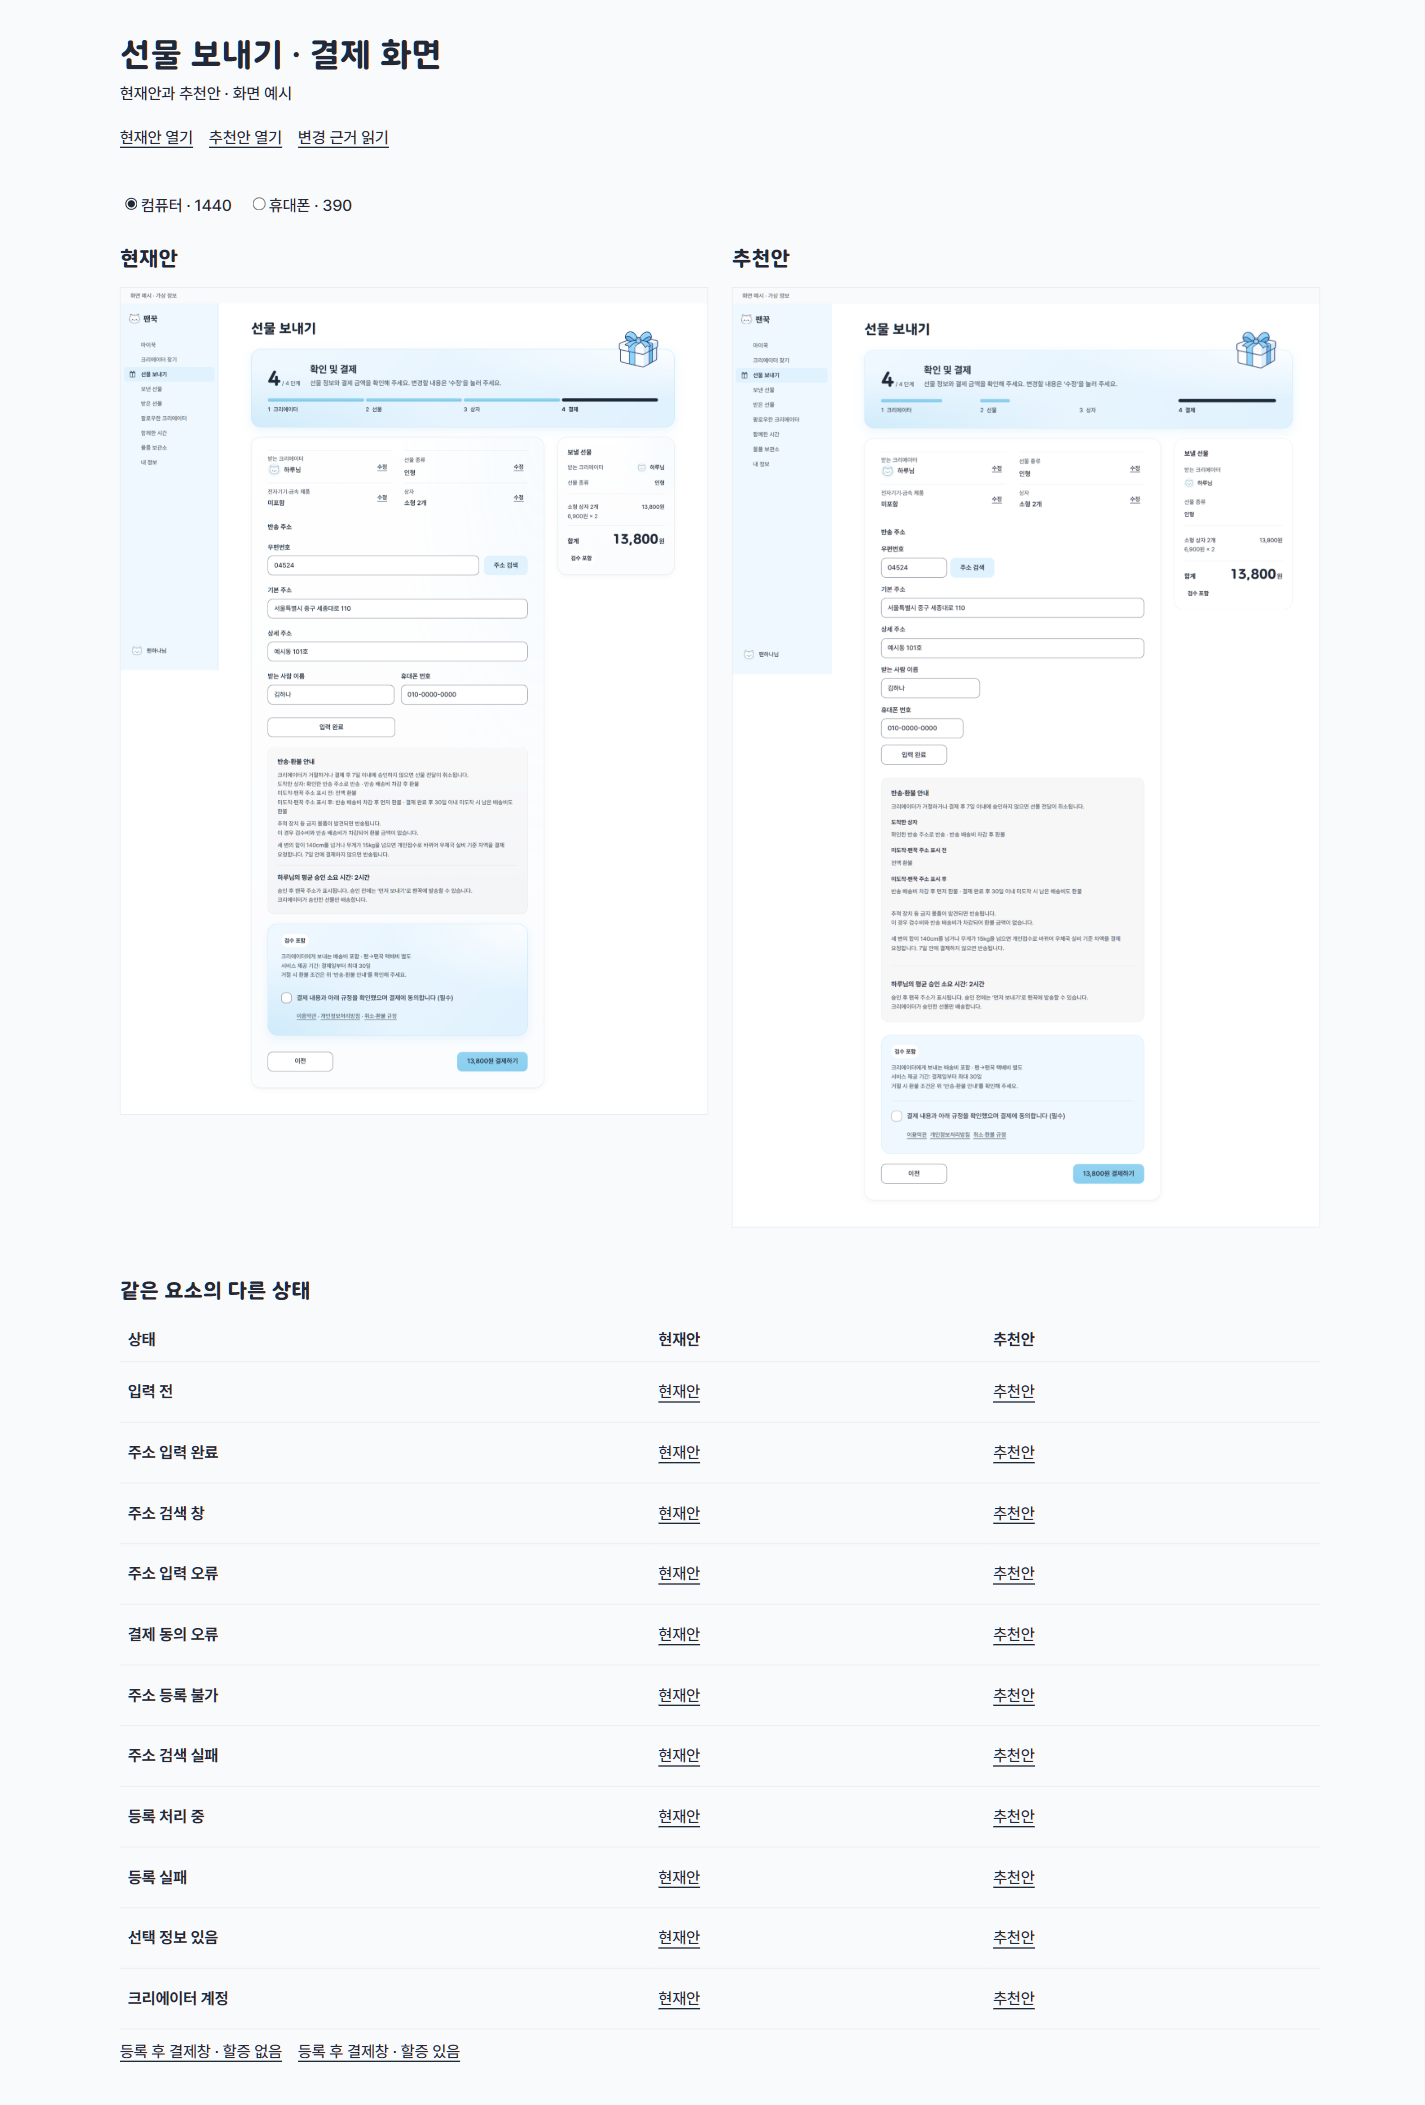
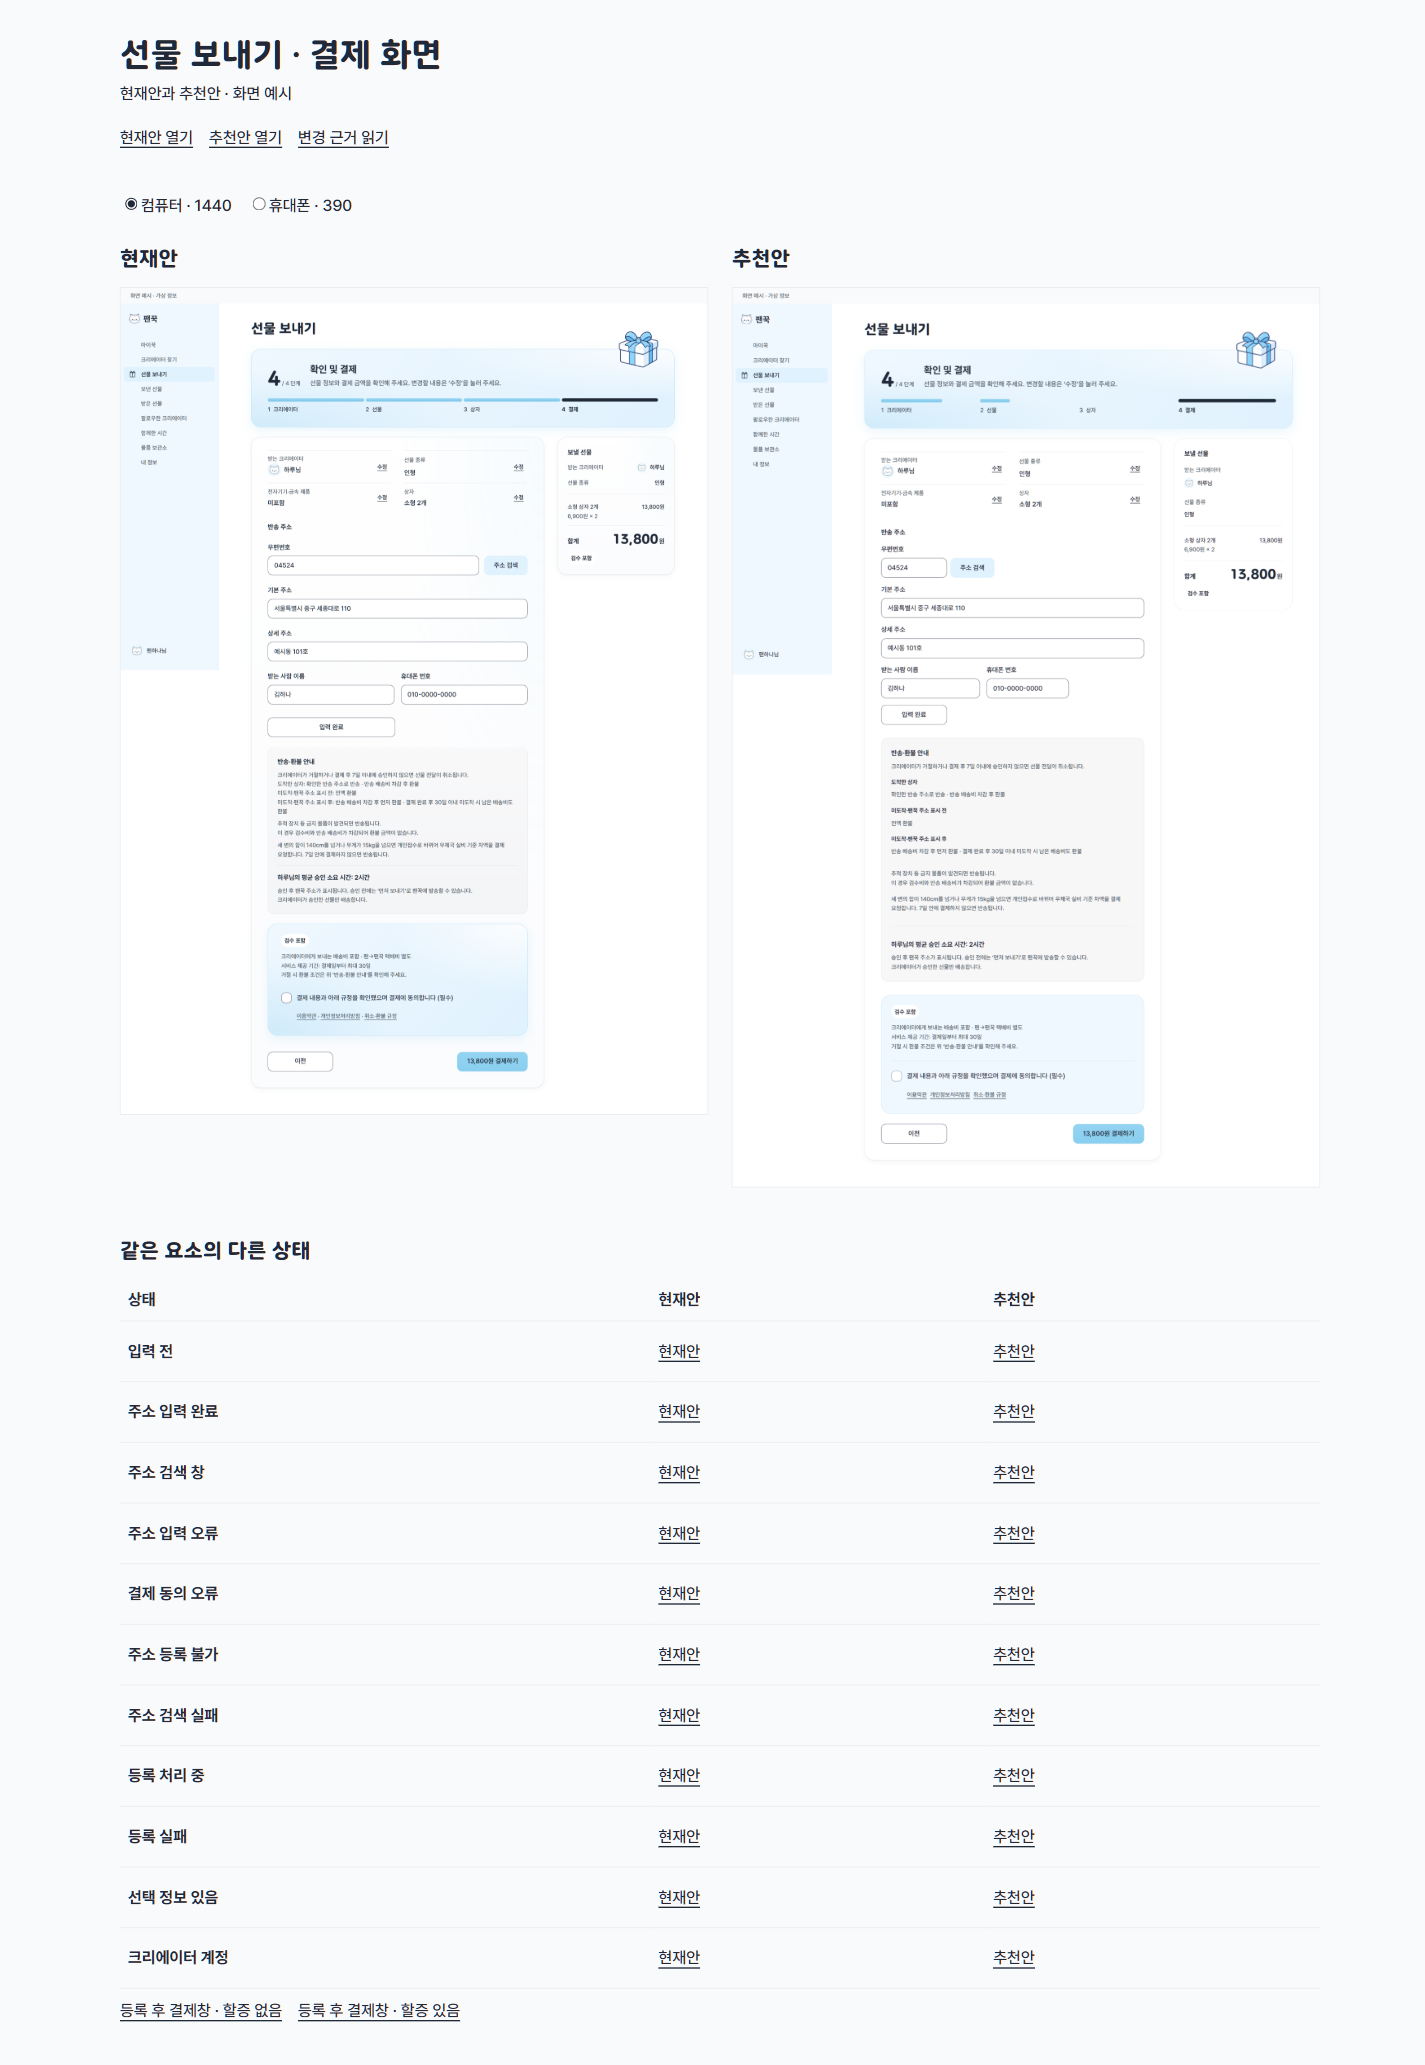
docs(fankkuk): 4단계 시안 — 이름 옆에 휴대폰 칸(240·200 한 줄) · design-prompt 8-2 「함께 쓰는 짧은 두 칸은 나란히 가능」

diff --git a/projects/fankkuk/docs/design/mockups/gift-send-step4-20261114/style.css b/projects/fankkuk/docs/design/mockups/gift-send-step4-20261114/style.css
@@ -75,9 +75,9 @@ svg { width: var(--space-6); height: var(--space-6); fill: none; stroke: current
 .recommended .zip-row { gap: var(--space-2); }
 .recommended .zip-row>.field { flex: 0 1 calc(var(--space-24) + var(--space-16)); }
 /* 2026-11-14 사용자 「이름이랑 전화번호 칸은 길이를 적당하게」 — design-prompt 8-2 「입력칸 폭은 값의 길이에 맞춘다」: 769 이상에서 이름 240 · 휴대폰 번호 200(13자 + 여백). 768 이하는 폭 전체 */
+/* 같은 날 「배치는 원래대로 — 이름 옆에 전번 칸」: 769 이상에서 두 칸을 한 줄에 나란히(이름 240 · 휴대폰 200, 사이 16) */
 @media (min-width:769px) {
-  .recommended .two .field:has(#recipient) { max-width: 240px; }
-  .recommended .two .field:has(#phone) { max-width: 200px; }
+  .recommended .two { grid-template-columns: 240px 200px; column-gap: var(--space-4); }
 }
 .recommended .sheet-btns { display: flex; gap: var(--space-2); margin-top: 0; }
 .recommended .sheet-btns .btn { min-width: calc(var(--space-24) + var(--space-16)); }

diff --git a/projects/fankkuk/docs/design/mockups/gift-send-step4-20261114/README.md b/projects/fankkuk/docs/design/mockups/gift-send-step4-20261114/README.md
@@ -9,7 +9,7 @@
 | 현재 구현과 다른 점 | 이유 | 적용한 디자인 원칙 |
 |---|---|---|
 | 휴대폰의 확인 정보를 한 열에서 두 열로 배치하고, 수정 버튼은 각 항목에 붙였습니다. | 네 항목을 확인한 뒤 반송 주소로 넘어가는 거리를 줄입니다. 값이 길면 자르지 않고 줄을 바꿉니다. | 1-4, 2-9, 6-5, 14-8 |
-| 반송 주소에서 이름·휴대폰 번호를 컴퓨터에서도 한 열로 놓았습니다. 칸 폭은 값의 길이에 맞춰 우편번호 160 · 이름 240 · 휴대폰 번호 200, 주소는 폼 폭 전체입니다(768 이하는 모두 폭 전체). | 입력 순서가 한 방향으로 이어지고, 각 칸의 폭으로 입력할 값의 길이를 구분합니다. 2026-11-14 사용자 지적으로 이름·휴대폰 칸을 줄였습니다(처음 시안은 폭 전체). | 2-19, 8-2(칸 폭 — 같은 날 추가), design-rules 37·41절 |
+| 반송 주소의 칸 폭을 값의 길이에 맞췄습니다: 우편번호 160 · 이름 240 · 휴대폰 번호 200, 주소는 폼 폭 전체. 이름과 휴대폰 번호는 지금처럼 한 줄에 나란히 둡니다(768 이하는 모두 한 줄에 하나, 폭 전체). | 칸 폭으로 입력할 값의 길이를 구분합니다. 2026-11-14 사용자 지적 둘 — 「이름·전화번호 칸은 줄여도」, 「배치는 원래대로, 이름 옆에 전번 칸」. | 2-19, 8-2(칸 폭·짧은 칸 나란히 — 같은 날 추가), design-rules 37·41절 |
 | 주소 입력칸 사이 24를 16으로, 주소 묶음과 다른 묶음 사이 24를 32로 바꿨습니다. 입력 완료는 컴퓨터에서 왼쪽, 휴대폰에서 전체 폭입니다. | 같은 작업의 칸들은 가까이 묶고, 입력의 시작과 끝을 구분합니다. | 2-1, 2-2, 2-21 |
 | 회색 안내 안의 세 가지 환불 조건을 조건 제목과 결과로 나눴습니다. 검수·개인접수 예외와 승인 정보는 여백으로 분리했습니다. | 조건을 찾아 읽기 쉽게 합니다. 원문의 금액·기한·환불 조건은 모두 유지했습니다. 접거나 숨기는 기능은 없습니다. | 1-8, 3-8, 8-14, 9-1, 13-2 |
 | 컴퓨터 요약 칸의 글 정보를 왼쪽 정렬하고 금액은 오른쪽 정렬했습니다. 결제 칸은 하늘 면을 유지하되 효과를 낮추고 동의를 구분선 아래에 묶었습니다. | 이름과 선물 종류는 읽기 쉽게, 금액은 자릿수를 비교하기 쉽게 합니다. 결제 버튼은 기존 위치·크기·문구를 유지합니다. | 1-2, 2-7, 2-18, 4-6, 12-4 |

diff --git a/projects/fankkuk/docs/design/design-prompt.md b/projects/fankkuk/docs/design/design-prompt.md
@@ -206,7 +206,7 @@
 
 8-1. 버튼: 휴대폰 주요 버튼은 좌우 여백만 남기고 폭 전체로 둔다.
 8-2. 폼: 한 열로 둔다. 라벨을 입력칸 왼쪽에 두는 가로 폼이면 라벨을 오른쪽 정렬해 입력칸에 붙인다. 체크박스·라디오는 라벨 앞(왼쪽)에 세로로 줄 맞춘다. 입력 라벨에는 입력할 값의 이름을 쓰고 입력칸 가까이에 둔다.
-   - **입력칸 폭은 들어갈 값의 길이에 맞춘다**(업계 표준 — Baymard Institute·Nielsen Norman Group 폼 연구: 칸 폭이 쓸 값의 길이를 알려 준다). 「한 열」은 칸을 위아래로 놓는다는 뜻이지 모든 칸을 폭 전체로 늘리라는 뜻이 아니다. 769 이상에서 우편번호(5자) 160 안팎 · 휴대폰 번호(13자) 200 안팎 · 이름 240 안팎 · 주소·이메일·자유 입력은 폼 폭 전체. 768 이하는 모든 칸을 폭 전체로 둔다(줄여도 남는 자리가 없다). (2026-11-14 사용자 「이름이랑 전화번호 칸은 길이를 적당하게 줄여도 되지 않을까」 — 선물 보내기 4단계 시안에서 이름·휴대폰 칸이 주소 칸만큼 넓었다)
+   - **입력칸 폭은 들어갈 값의 길이에 맞춘다**(업계 표준 — Baymard Institute·Nielsen Norman Group 폼 연구: 칸 폭이 쓸 값의 길이를 알려 준다). 「한 열」은 칸을 위아래로 놓는다는 뜻이지 모든 칸을 폭 전체로 늘리라는 뜻이 아니다. 769 이상에서 우편번호(5자) 160 안팎 · 휴대폰 번호(13자) 200 안팎 · 이름 240 안팎 · 주소·이메일·자유 입력은 폼 폭 전체. 768 이하는 모든 칸을 폭 전체로 둔다(줄여도 남는 자리가 없다). 함께 쓰는 짧은 두 칸(받는 사람 이름 + 휴대폰 번호처럼)은 769 이상에서 한 줄에 나란히 둘 수 있다 — 같은 날 사용자 「이름 옆에 전번 칸」. (2026-11-14 사용자 「이름이랑 전화번호 칸은 길이를 적당하게 줄여도 되지 않을까」 — 선물 보내기 4단계 시안에서 이름·휴대폰 칸이 주소 칸만큼 넓었다)
 8-3. 입력: 받을 때는 관대하게(공백·하이픈·국가번호 유무 허용), 보여 줄 때는 한 형식으로.
 8-4. 탭: 고정 탭은 너비를 똑같이 나누고, 스크롤 탭은 마지막 탭이 화면 밖으로 이어지게 둔다.
 8-5. 검색 제안: 자동완성과 연관 검색어를 소제목으로 나누고, 입력한 글자는 보통 굵기, 뒤에 붙는 글자만 굵게.
